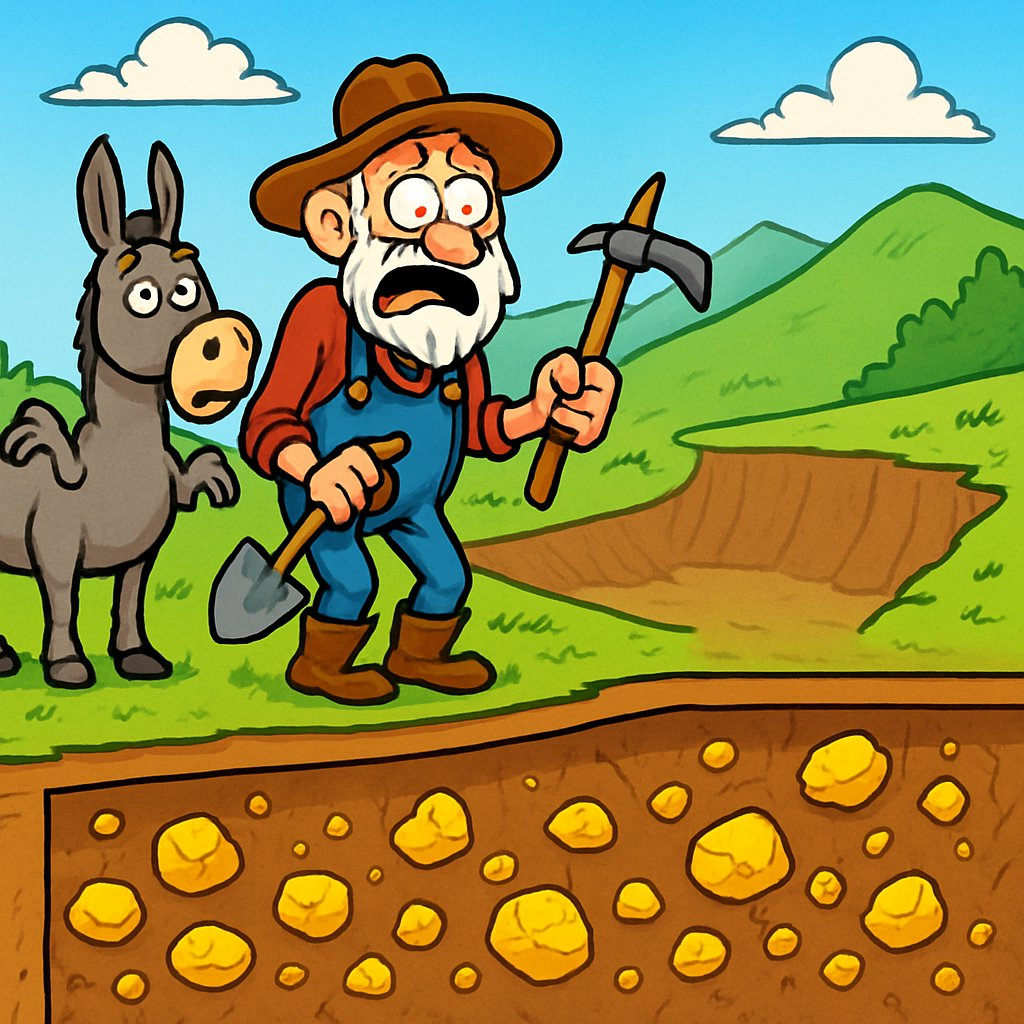
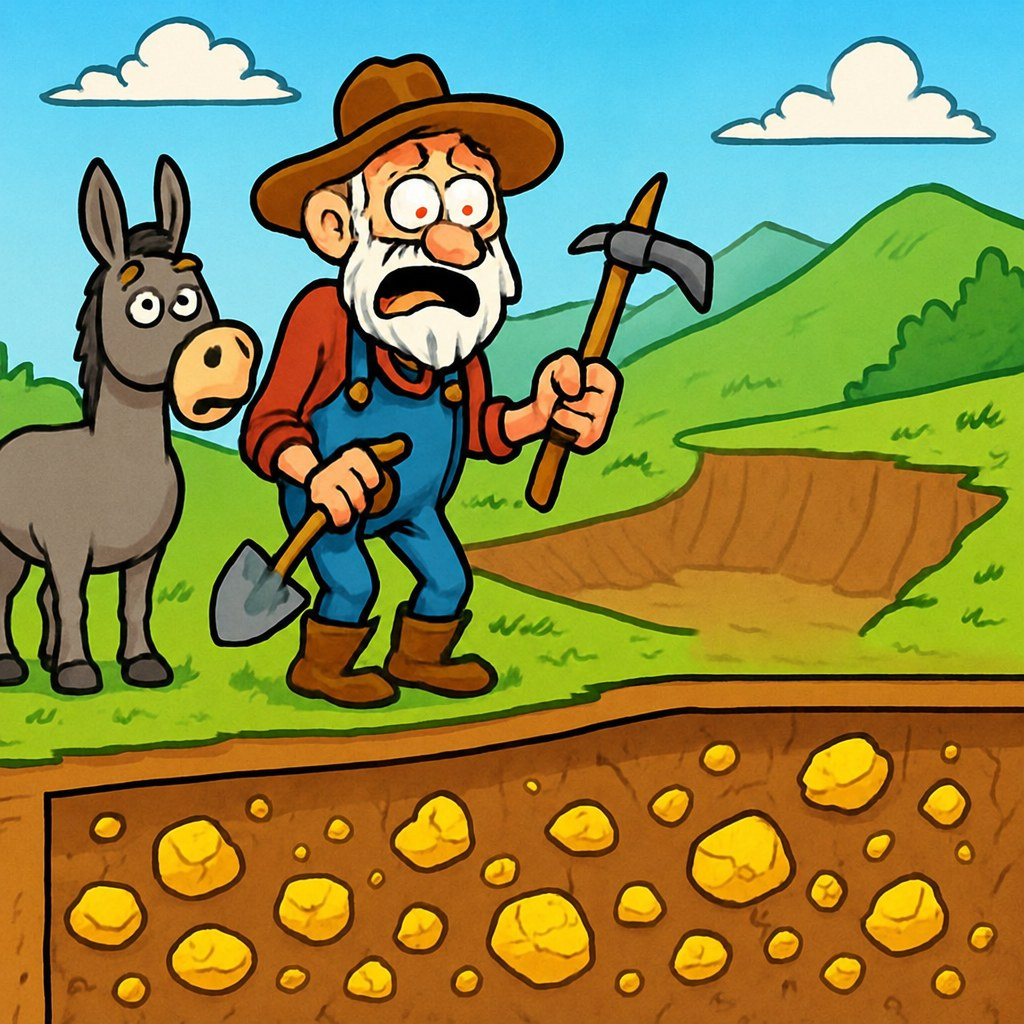
Week 9 Tuesday: growth-wall cartoon on slide 4; mule's extra arms removed
Both made with OpenAI gpt-image-2 (the cartoon generated, the gold divider
edited in place); the slide 4 TODO(graphic) placeholder is gone.

diff --git a/slides/week-09/interpolation.md b/slides/week-09/interpolation.md
@@ -149,7 +149,6 @@ section > h1 { position: absolute; top: 52px; left: 70px; right: 70px; margin: 0
 .gr ul { list-style: none; margin: 0; padding: 0; }
 .gr li { margin: 0; }
 .gr-cartoon { position: absolute; left: 70px; top: 118px; width: 300px; height: 300px; border-radius: 10px; }
-.gr-ph { display: flex; align-items: center; justify-content: center; text-align: center; background: #f4f6f9; border: 2px dashed #9aa6b6; color: #7d8ba0; font-size: 0.55em; padding: 1em; box-sizing: border-box; }
 .gr-layer { position: absolute; left: 440px; top: 112px; width: 790px; height: 489px; }
 .gr-say { position: absolute; left: 70px; width: 350px; font-size: 0.6em; line-height: 1.3; }
 .gr-say strong { color: #002e5d; }
@@ -158,7 +157,7 @@ section > h1 { position: absolute; top: 52px; left: 70px; right: 70px; margin: 0
 li[data-bespoke-marp-fragment="active"] .gr-pop { animation: tryit-pop 0.45s ease-out both; }
 </style>
 
-<div class="gr-cartoon gr-ph">TODO(graphic): cartoon of a mom marking her daughter's height on the wall</div>
+<img class="gr-cartoon" src="images/ip-growth-wall-cartoon.jpg" alt="Cartoon of a mom marking her daughter's height on a door frame">
 
 <img class="gr-layer" src="images/ip-growth-points.png" alt="Her height on each birthday from 1 to 18">
 
@@ -172,7 +171,7 @@ li[data-bespoke-marp-fragment="active"] .gr-pop { animation: tryit-pop 0.45s eas
 
 </div>
 
-<!-- Three clicks. A girl measured on every birthday is a sample; the wall marks are her data. Click 1: nobody measured her at 12 and a half, so we need an estimate. Click 2: the two-point equation from Today's Goals, with her 12th (5 ft 3 in) and 13th (5 ft 5.5 in) birthday heights: 63 + 2.5 x 0.5 = 64.25 in, about 5 ft 4 in. Click 3: do that for every month and join the dots and you have the whole curve. That is the entire week in one dimension: the birthdays are the sampling design, the line is the interpolated surface. Ask whether a straight line between birthdays is right during her growth spurt (11 to 13), which is the question every method today answers differently. The girl is made up: her heights follow the shape of the CDC (2000) stature-for-age median for girls, scaled to finish at 5 ft 8 in and rounded to the half inch (tools/week09_tuesday_figures.py). -->
+<!-- Three clicks. A girl measured on every birthday is a sample; the wall marks are her data. Click 1: nobody measured her at 12 and a half, so we need an estimate. Click 2: the two-point equation from Today's Goals, with her 12th (5 ft 3 in) and 13th (5 ft 5.5 in) birthday heights: 63 + 2.5 x 0.5 = 64.25 in, about 5 ft 4 in. Click 3: do that for every month and join the dots and you have the whole curve. That is the entire week in one dimension: the birthdays are the sampling design, the line is the interpolated surface. Ask whether a straight line between birthdays is right during her growth spurt (11 to 13), which is the question every method today answers differently. The girl is made up: her heights follow the shape of the CDC (2000) stature-for-age median for girls, scaled to finish at 5 ft 8 in and rounded to the half inch (tools/week09_tuesday_figures.py). The cartoon was generated with OpenAI gpt-image-2, October 25, 2026. -->
 
 ---
 
